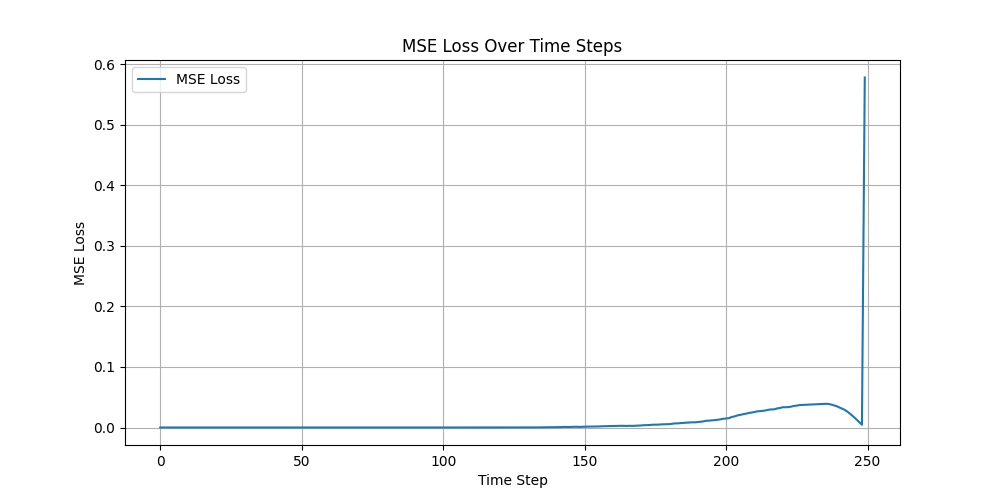
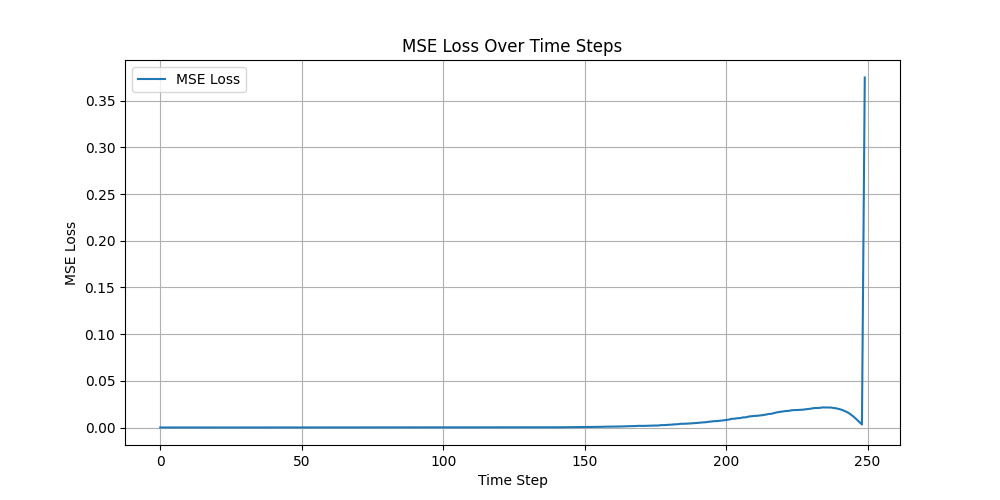
last block

diff --git a/qwerty/main_qwerty.py b/qwerty/main_qwerty.py
@@ -14,13 +14,13 @@ from qwerty.utils_qdit import parse_option, init_data, init_env, init_model, sav
 from qwerty.utils_qwerty import FeatureDataset, lienar_regression, CompensationBlock
 from qwerty.utils_traineval import dit_generator, sample
 
-LINEAR_COMPENSATION_SAMPLES = 4096
-# LINEAR_COMPENSATION_SAMPLES = 512
+# LINEAR_COMPENSATION_SAMPLES = 4096
+LINEAR_COMPENSATION_SAMPLES = 512
 
 @torch.no_grad()
 def generate_compensation_model(args):
     init_distributed_mode(args)
-    rank, device, logger, experiment_dir = init_env(args)
+    rank, device, logger, experiment_dir = init_env(args, dir='008-DiT-XL-2')
     checkpoint_dir = f"{experiment_dir}/checkpoints" 
     model, state_dict, diffusion, vae = init_model(args, device)
     loader, sampler = init_data(args, rank, logger)
@@ -110,7 +110,12 @@ def generate_compensation_model(args):
 
             assert torch.sum((output_x_previous - output_t_).abs()) < 1e-3
             
-            W, b, r2_score = lienar_regression(output_t_, output_full_precision - output_quant, block_id=block_id, logger=logger)
+            if block_id < args.start_block:
+                W = torch.zeros((1152, 1152))
+                b = torch.zeros(1152)
+                r2_score = -1
+            else:
+                W, b, r2_score = lienar_regression(output_t_, output_full_precision - output_quant, block_id=block_id, logger=logger)
 
             q_model.blocks[block_id] = CompensationBlock(W=W, b=b, r2_score=r2_score, block=q_model.blocks[block_id], linear_init=True if block_id >= args.start_block else False, local_rank=rank, block_id=block_id, logger=logger)
             q_model.cuda()
@@ -135,9 +140,10 @@ def generate_compensation_model(args):
                 if i >= (LINEAR_COMPENSATION_SAMPLES // args.batch_size // args.world_size - 1):
                     break
 
-            quant_error = torch.cat(quant_error).mean()
-            qwerty_error = torch.cat(qwerty_error).mean()
-            logger.info(f"Quantization error: {quant_error.item():.4f}; Qwerty error (L1 distance): {qwerty_error.item():.4f}")
+            quant_error = torch.Tensor(quant_error).mean()
+            qwerty_error = torch.Tensor(qwerty_error).mean()
+            logger.info(f"[{block_id}/{len(q_model.blocks)}] Quantization error: {quant_error.item():.4f}; Qwerty error (L1 distance): {qwerty_error.item():.4f}")
+
         save_ckpt(q_model, args, checkpoint_dir, logger)
     
     mode = args.mode
